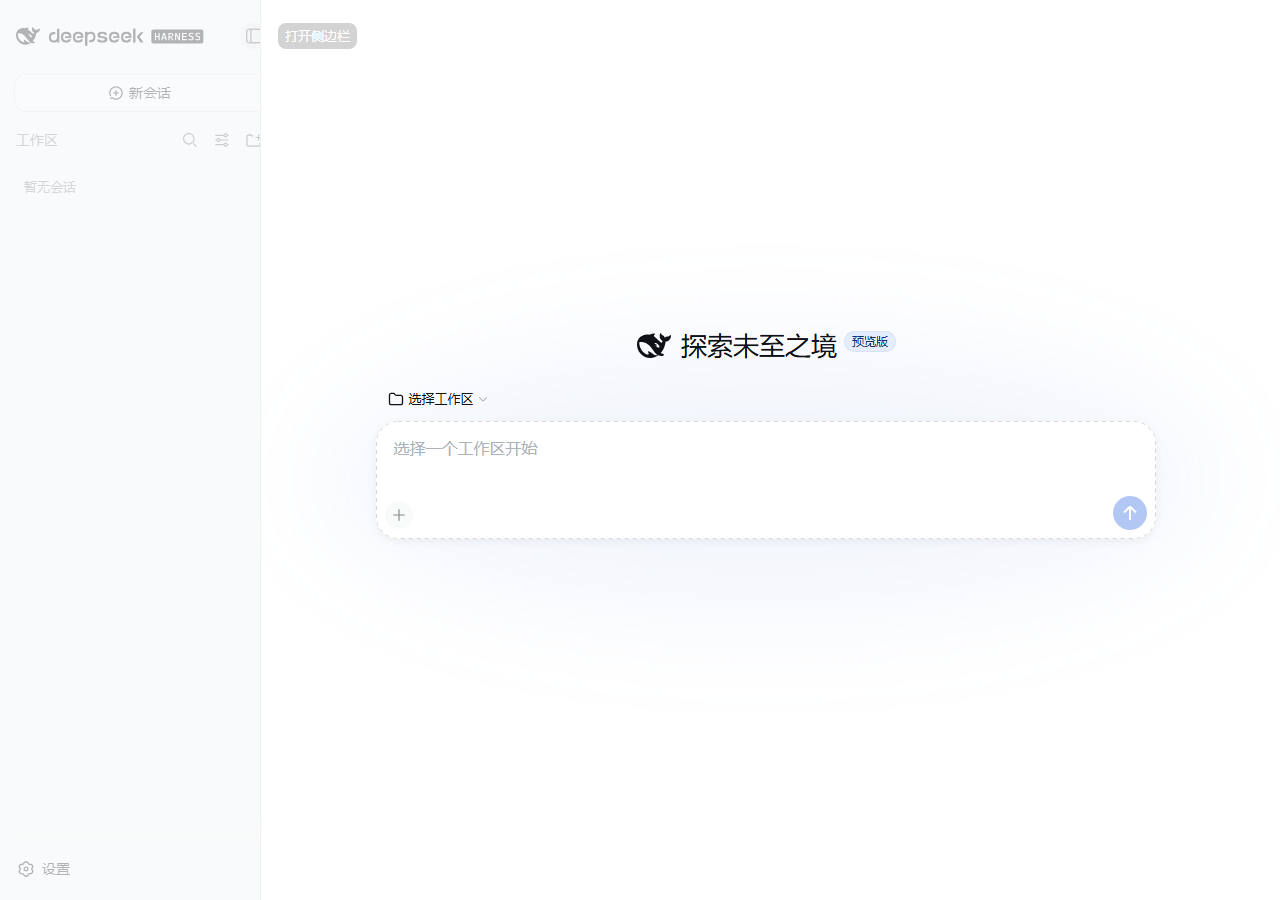
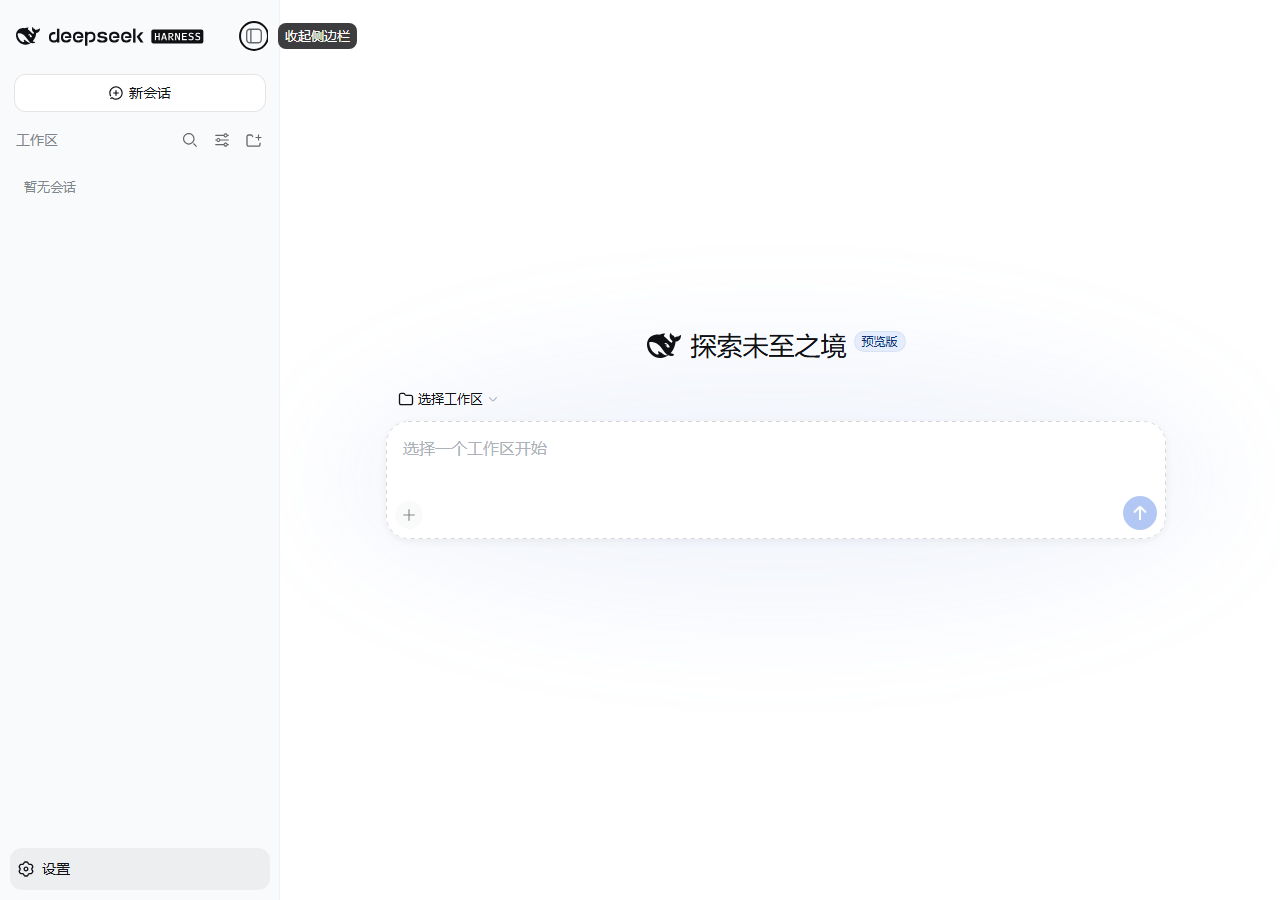
test: cover native accessibility smoke checks

diff --git a/web/src/dsh-native-entry.ts b/web/src/dsh-native-entry.ts
@@ -85,7 +85,27 @@ export async function mountDshNativeApp(container: HTMLElement): Promise<void> {
   if (!hasDshNativeBoot()) {
     throw new Error('shutu web: DSH native boot contract is unavailable; configure the DSH host bridge first')
   }
+  installDshNativeAccessibilityBridge()
   await new AppWebEntry(container).run()
+}
+
+/**
+ * Keep the compact DSH settings trigger discoverable to assistive technology.
+ * The upstream shell intentionally renders only the icon in the rail and does
+ * not expose a label on that button. This host-owned bridge repairs the DOM
+ * contract without changing the read-only DSH source tree.
+ */
+export function installDshNativeAccessibilityBridge(documentObject: Document = document): () => void {
+  const apply = (): void => {
+    for (const button of documentObject.querySelectorAll<HTMLButtonElement>('button[aria-haspopup="dialog"]')) {
+      if (button.getAttribute('aria-label')?.trim() || button.textContent?.trim()) continue
+      button.setAttribute('aria-label', 'Settings')
+    }
+  }
+  apply()
+  const observer = new MutationObserver(apply)
+  observer.observe(documentObject.body, { childList: true, subtree: true })
+  return () => observer.disconnect()
 }
 
 /** Report the build marker used by the native manifest and diagnostics. */

diff --git a/docs/dsh-web-parity-tasks.md b/docs/dsh-web-parity-tasks.md
@@ -67,6 +67,7 @@
 - [x] P36-6.1a：通过 Playwright 保存原生 DSH 空数据桌面/移动基线截图；截图目录支持 `SHUTU_E2E_ARTIFACT_DIR`，本轮命令与结果记录在 `docs/dsh-web-parity-acceptance.md`。
 - [ ] P36-6.2：对比布局尺寸、字体、间距、颜色、边框、滚动条、焦点和弹层行为。
 - [ ] P36-6.3：验证 Tab、快捷键、Escape、读屏语义、ARIA、焦点恢复和触控目标。
+- [x] P36-6.3a：Playwright 验证原生设置 Escape 关闭、侧边栏 Enter 键切换、桌面/移动按钮可访问名称及移动端可见按钮不低于 24px；完整 Tab/读屏/焦点矩阵仍待补齐。
 - [ ] P36-6.4：为每个 DSH 核心页面保留截图和交互证据。
 - [ ] P36-7.1：用真实“网页版超级玛丽”长任务验证 5 万、10 万级历史记录。
 - [ ] P36-7.2：验证 reasoning/token/tool 持续流、长文本、代码块和密集工具调用。
